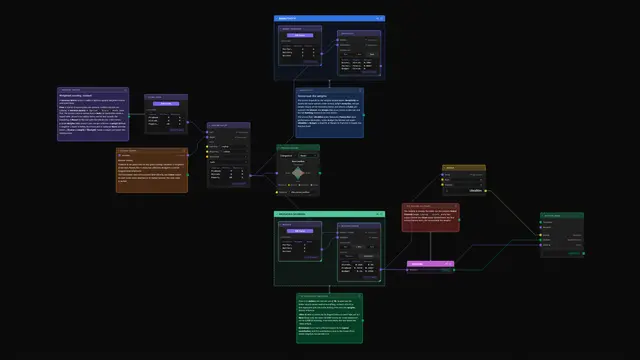
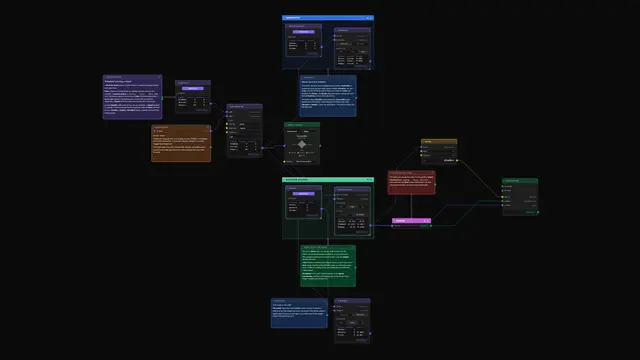
Sensitivity: Flip points mode, the weight at which another option wins
[[C125]] flipPoints. Decision Sensitivity gains a mode: Flip points reads
the Weights table and gives, per criterion, the nearest weight below and
above its own at which another option takes first place, and which one,
never crossing zero. The output swaps to a Frame and the input relabels to
Weights. Exact, since every score shares the weight total. Stands in for
v2.0/10's ±N% scenarios; the backlog item is done. The Decision Matrix seed
shows it.

Claude-Session: https://claude.ai/code/session_018WxbmNX7yKN6Bf3ABencBp

Changed region(s): [[0.0625, 0.0306, 0.9375, 0.9778]]

diff --git a/src/graph/nodes/frame.ts b/src/graph/nodes/frame.ts
@@ -32,7 +32,7 @@ import {
 } from "../frame";
 import {
   pivotFrame, nestFrame, unnestCube,
-  splitColumn, addIndexColumn, decisionMatrix, decisionCriteria, decisionSensitivity, resolveDecisionWeights, allocateFrame, choiceLadder,
+  splitColumn, addIndexColumn, decisionMatrix, decisionCriteria, decisionSensitivity, flipPoints, resolveDecisionWeights, allocateFrame, choiceLadder,
   mergeColumns, promoteHeaders, demoteHeaders, dropBlankRows,
   lookupCell, lookupRowIndex,
   frameRowAt, cubeRowAt, asLookupSource, reconcileFrames,
@@ -1560,15 +1560,19 @@ export class DecisionMatrixNode extends ClassicPreset.Node {
 
 // ─── DECISION SENSITIVITY ───────────────────────────────────────────────────────
 
+export type SensitivityMode = "scenarios" | "flips";
+
 export class DecisionSensitivityNode extends ClassicPreset.Node {
   static socketDocs: Record<string, string> = {
     scores: "The options frame a Decision Matrix takes: rows are options, number columns criteria.",
-    scenarios: "The Decision Matrix weights frame widened to many scenarios: one row per Criterion, and a number column per scenario (its header names it) carrying that scenario's weight. An optional Norm column applies per criterion across every scenario; a criterion a scenario omits weighs 1.",
+    scenarios: "Scenarios: the Decision Matrix weights frame widened, one row per Criterion and a number column per scenario (its header names it) carrying that scenario's weight; an optional Norm column and At least / At most apply across every scenario, and a criterion a scenario omits weighs 1. Flip points: the Decision Matrix's own Weights table.",
+    cube: "Scenarios: a row per scenario with its Winner, Margin and full Ranking. Flip points: a row per criterion with the nearest weight below and above its own at which another option would win, and which one.",
   };
 
   label: string;
   normalize: DecisionNormalize;
-  cachedResult: CubeValue | SolError | null = null;
+  mode: SensitivityMode;
+  cachedResult: CubeValue | FrameValue | SolError | null = null;
   width = 220; height = 240;
 
   static frameHints: Record<string, FrameHint> = {
@@ -1581,20 +1585,44 @@ export class DecisionSensitivityNode extends ClassicPreset.Node {
     ] },
   };
 
-  constructor(init?: { label?: string; normalize?: DecisionNormalize }) {
+  // [[C125]] flipPoints: the mode swaps the output between a Cube of scenarios and a Frame of flip points.
+  static outputFor(mode: SensitivityMode) { return mode === "flips" ? frameOut("Flip points") : cubeOut("By scenario"); }
+  static inputLabel(mode: SensitivityMode) { return mode === "flips" ? "Weights" : "Scenarios"; }
+
+  constructor(init?: { label?: string; normalize?: DecisionNormalize; mode?: SensitivityMode }) {
     super("DecisionSensitivity");
     this.label = init?.label ?? "Sensitivity";
     this.normalize = init?.normalize ?? "max";
+    this.mode = init?.mode === "flips" ? "flips" : "scenarios";
     this.addInput("scores", frameIn("Scores"));
-    this.addInput("scenarios", frameIn("Scenarios"));
-    this.addOutput("cube", cubeOut("By scenario"));
+    this.addInput("scenarios", frameIn(DecisionSensitivityNode.inputLabel(this.mode)));
+    this.addOutput("cube", DecisionSensitivityNode.outputFor(this.mode));
+  }
+
+  setMode(next: SensitivityMode): { outputChanged: boolean } {
+    if (next === this.mode) return { outputChanged: false };
+    this.mode = next;
+    const spec = DecisionSensitivityNode.outputFor(next);
+    this.outputs.cube!.socket = spec.socket;
+    this.outputs.cube!.label = spec.label;
+    this.inputs.scenarios!.label = DecisionSensitivityNode.inputLabel(next);
+    return { outputChanged: true };
+  }
+
+  frameShape(_outKey: string, _ctx: FrameShapeContext): Shape | null {
+    if (this.mode !== "flips") return null;
+    return { columns: [
+      { name: "Criterion", type: "string" }, { name: "Weight", type: "number" },
+      { name: "Flips below", type: "number" }, { name: "Winner below", type: "string" },
+      { name: "Flips above", type: "number" }, { name: "Winner above", type: "string" },
+    ] };
   }
 
   data(inputs: { scores?: (FrameValue | null)[]; scenarios?: (FrameValue | null)[] }) {
     const scores = inputs.scores?.[0] ?? null;
     const scenarios = inputs.scenarios?.[0] ?? null;
-    if (!scores || !scenarios) { this.cachedResult = null; return { cube: null }; }
-    this.cachedResult = runVerb(() => decisionSensitivity(scores, scenarios, this.normalize));
+    if (!scores || (!scenarios && this.mode === "scenarios")) { this.cachedResult = null; return { cube: null }; }
+    this.cachedResult = runVerb(() => (this.mode === "flips" ? flipPoints(scores, scenarios, this.normalize) : decisionSensitivity(scores, scenarios!, this.normalize)));
     return { cube: this.cachedResult };
   }
 }

diff --git a/tests/graph/decisionMatrix.test.ts b/tests/graph/decisionMatrix.test.ts
@@ -1,7 +1,7 @@
 // [[B17]]
 import { describe, it, expect } from "vitest";
-import { decisionMatrix, decisionCriteria, decisionSensitivity } from "../../src/graph/frameVerbs";
-import { DecisionMatrixNode } from "../../src/graph/rete-nodes";
+import { decisionMatrix, decisionCriteria, decisionSensitivity, flipPoints } from "../../src/graph/frameVerbs";
+import { DecisionMatrixNode, DecisionSensitivityNode } from "../../src/graph/rete-nodes";
 import { isSolError, solError } from "../../src/graph/errorValue";
 import { isFrameValue, isCubeValue, type FrameValue, type FrameColumn } from "../../src/graph/frame";
 
@@ -509,5 +509,72 @@ describe("deal-breakers ([[C124]] dealBreakers)", () => {
     if (!isCubeValue(cube)) throw new Error("expected a cube");
     expect(cube.columns[0].cells).toEqual(["Light-first"]);
     expect(cube.columns[1].cells).toEqual(["Tower"]);
+  });
+});
+
+describe("flip points ([[C125]] flipPoints)", () => {
+  const cars: FrameValue = { __frame: true, columns: [
+    { name: "Car", type: "string", values: ["Civic", "Model 3", "RAV4", "Miata", "Outback"] },
+    { name: "Price", type: "number", values: [26, 42, 31, 30, 29] },
+    { name: "Range", type: "number", values: [450, 500, 520, 400, 480] },
+    { name: "Fun", type: "number", values: [6, 9, 4, 10, 5] },
+    { name: "Space", type: "number", values: [6, 6, 9, 2, 9] },
+  ] };
+  const weights: FrameValue = { __frame: true, columns: [
+    { name: "Criterion", type: "string", values: ["Price", "Range", "Fun", "Space"] },
+    { name: "Weight", type: "number", values: [-3, 1, 2, 2] },
+  ] };
+  const w0 = [-3, 1, 2, 2];
+  // An unrounded oracle: ÷Max values weighted and summed, the first strict best winning.
+  const winnerAt = (j: number, t: number) => {
+    const crit = cars.columns.slice(1).map((c) => { const v = c.values as number[]; const m = Math.max(...v.map(Math.abs)); return v.map((x) => x / m); });
+    const w = w0.map((x, k) => (k === j ? t : x));
+    const tot = (cars.columns[0].values as string[]).map((_, i) => crit.reduce((s, e, k) => s + e[i] * w[k], 0));
+    return cars.columns[0].values[tot.reduce((b, v, i) => (v > tot[b] ? i : b), 0)];
+  };
+
+  it("names, per criterion, the nearest weights either side where another option takes first place", () => {
+    const out = flipPoints(cars, weights, "max");
+    expect(out.columns.map((c) => c.name)).toEqual(["Criterion", "Weight", "Flips below", "Winner below", "Flips above", "Winner above"]);
+    const now = winnerAt(0, -3);
+    let checked = 0;
+    out.columns[0].values.forEach((_, j) => {
+      for (const [side, dir] of [["below", -1], ["above", 1]] as const) {
+        const t = col(out, `Flips ${side}`).values[j] as number | null;
+        const who = col(out, `Winner ${side}`).values[j];
+        if (t == null) continue;
+        checked++;
+        expect(winnerAt(j, t + dir * 1e-3)).toBe(who);
+        expect(winnerAt(j, t - dir * 1e-3)).toBe(now);
+      }
+    });
+    expect(checked).toBeGreaterThan(2);
+  });
+
+  it("never crosses zero: a cost stays a cost", () => {
+    const out = flipPoints(cars, weights, "max");
+    const above = col(out, "Flips above").values[0];
+    expect(above == null || (above as number) <= 0).toBe(true);
+    for (let j = 1; j < 4; j++) {
+      const below = col(out, "Flips below").values[j];
+      expect(below == null || (below as number) >= 0).toBe(true);
+    }
+  });
+
+  it("a ruled-out option never wins, and one option left flips nowhere", () => {
+    const capped: FrameValue = { ...weights, columns: [...weights.columns, { name: "At most", type: "number", values: [27, null, null, null] }] };
+    const out = flipPoints(cars, capped, "max");
+    expect([...col(out, "Flips below").values, ...col(out, "Flips above").values].every((v) => v == null)).toBe(true);
+  });
+
+  it("the node's Flip points mode swaps its output to a frame and reads the Weights table", () => {
+    const n = new DecisionSensitivityNode();
+    expect(n.outputs.cube!.label).toBe("By scenario");
+    expect(n.setMode("flips")).toEqual({ outputChanged: true });
+    expect(n.inputs.scenarios!.label).toBe("Weights");
+    const out = n.data({ scores: [cars], scenarios: [weights] }).cube;
+    expect(isFrameValue(out)).toBe(true);
+    expect(isFrameValue(n.data({ scores: [cars] }).cube)).toBe(true);
+    expect(new DecisionSensitivityNode({ mode: "flips" }).outputs.cube!.label).toBe("Flip points");
   });
 });

diff --git a/src/graph/nodeCatalog.ts b/src/graph/nodeCatalog.ts
@@ -926,7 +926,7 @@ export const NODE_CATALOG: CatalogEntry[] = [
             type: "category", label: "Analyze", description: "Score, profile, and compare Frames: weighted decisions, column summaries and correlations, version reconciliation.",
             children: [
               { type: "decision-matrix", label: "Decision Matrix", description: "Scores and ranks a Frame of options: rows are options and number columns are criteria. Score = `Σ(value × weight) / Σ|weight|`, ranked on the rounded score. Weights come from a Weights table, one row per criterion; a negative weight favors lower values like cost, and a criterion left out weighs 1. Norm scales each criterion so dollars and out-of-10 scores compare: Raw, ÷Max (the default) or Rank. At least and At most columns are deal-breakers: an option outside them is ruled out before weighing. A blank counts as the criterion's median. Breakdown adds each criterion's contribution to the Score.", create: () => new DecisionMatrixNode(), parity: false, keywords: "decision matrix weighted score rank ranking criteria weight choose compare options podium dmbv multi-criteria mcda" },
-              { type: "decision-sensitivity", label: "Sensitivity", description: "Re-scores the same options under several weight Scenarios to see whether the winner holds. The Scenarios table is the Decision Matrix's Weights table with one weight column per scenario, and an optional Norm column. The result is a Cube with one row per scenario: the Winner, the Margin over the runner-up, and the full Ranking to drill into. Options tied for first are listed together. Pairs with Decision Matrix.", create: () => new DecisionSensitivityNode(), parity: false, keywords: "decision sensitivity robustness scenario weight cube what-if stress test ranking stability mcda" },
+              { type: "decision-sensitivity", label: "Sensitivity", description: "Re-scores the same options under several weight Scenarios to see whether the winner holds. The Scenarios table is the Decision Matrix's Weights table with one weight column per scenario, and an optional Norm column. The result is a Cube with one row per scenario: the Winner, the Margin over the runner-up, and the full Ranking to drill into. Options tied for first are listed together. Flip points mode takes the Weights table instead and gives, per criterion, the weight below and above its own at which another option would win. Pairs with Decision Matrix.", create: () => new DecisionSensitivityNode(), parity: false, keywords: "decision sensitivity robustness scenario weight cube what-if stress test ranking stability mcda flip point break-even tipping" },
               { type: "choice-ladder", label: "Choice Ladder", description: "Orders a Decision Matrix's options into the sequence to take them in when you can't do them all. Limits name cost columns: a row with a number is counted, a row without one is a rough cost such as political capital. Optional Requires and Excludes columns link options, and Must and Never columns force them in or out. Where two scores are within Close, the ladder forks, and the side you take is kept. Value flows down and each rung takes what it serves. Plan is the main line.", create: () => new ChoiceLadderNode(), parity: false, keywords: "choice ladder choose several pick set shortlist budget limit constraint knapsack portfolio itinerary decision matrix fork plan trip restaurants policy agenda priority capital requires excludes" },
               { type: "describe",    label: "Describe",    description: "One row per column: count, blank, distinct, and for numbers mean, std, min, quartiles, max. pandas `describe`, R `summary`.", create: () => new DescribeNode(), parity: false, keywords: "describe summary summarize profile statistics count mean std quartile overview explore eda" },
               { type: "corr-matrix", label: "Correlation Matrix", description: "Pearson, Spearman or Kendall correlation, or covariance, between every pair of number columns, with a leading name column. pandas `df.corr`, R `cor`.", create: () => new CorrMatrixNode(), parity: false, keywords: "correlation matrix corr cov covariance pearson spearman kendall pairwise heatmap" },

diff --git a/src/graph/frameVerbs.ts b/src/graph/frameVerbs.ts
@@ -1710,6 +1710,8 @@ interface DecisionScores {
   contrib: number[][];
   /** Each criterion's weight over Σ|weight|. */
   weightShare: number[];
+  /** `effective[j][i]`: option i's normalized value on criterion j, before weighting. */
+  effective: number[][];
   scores: number[];
 }
 
@@ -1750,7 +1752,7 @@ function decisionScores(
     return round4(sw);
   });
   const weightShare = criteriaCols.map((_, j) => (sumAbsW > 0 ? weightOf(j) / sumAbsW : 0));
-  return { labelName: labelCol?.name ?? "Option", labels, criteria: criteriaCols, contrib, weightShare, scores };
+  return { labelName: labelCol?.name ?? "Option", labels, criteria: criteriaCols, contrib, weightShare, effective, scores };
 }
 
 export function decisionMatrix(
@@ -1968,6 +1970,54 @@ export function decisionSensitivity(
     { name: "Margin", cells: marginCells },
     { name: "Ranking", cells: rankingCells },
   ]);
+}
+
+// ─── Flip points (how far each weight can move before the winner changes) ────────
+
+/** For each criterion, the nearest weight below and above its own at which another option would take first place, the
+ *  others held ([[C125]] flipPoints). Every score shares Σ|w|, so with one weight `t` free, option i's score orders by
+ *  `A_i + e_i·t`; the winner W is overtaken where those lines cross. The search stays on the weight's side of zero. */
+export function flipPoints(f: FrameValue, weightsFrame: FrameValue | null, normalize: DecisionNormalize): FrameValue {
+  const criteria = decisionCriteria(f);
+  if (criteria.length === 0) throw solError("#VALUE!", "Decision Matrix needs at least one numeric criterion column");
+  const { weights, normOverrides, bounds } = resolveDecisionWeights(weightsFrame, criteria);
+  const w = criteria.map((_, j) => weights?.[j] ?? 1);
+  const failed = decisionScreen(f, bounds);
+  const pass = failed.map((x, i) => (x.length ? -1 : i)).filter((i) => i >= 0);
+  const ds = decisionScores(frameRows(f, pass), w, normalize, normOverrides);
+  const n = pass.length;
+  const eff = ds.effective;
+  const total = Array.from({ length: n }, (_, i) => criteria.reduce((s, _, j) => s + eff[j][i] * w[j], 0));
+  const win = total.reduce((b, v, i) => (v > total[b] + 1e-12 ? i : b), 0);
+
+  const rows = criteria.map((name, j) => {
+    let below: { t: number; who: number } | null = null, above: { t: number; who: number } | null = null;
+    if (n > 1) {
+      const A = total.map((v, i) => v - eff[j][i] * w[j]);
+      const lo = w[j] > 0 ? 0 : -Infinity, hi = w[j] < 0 ? 0 : Infinity;
+      for (let i = 0; i < n; i++) {
+        if (i === win) continue;
+        const de = eff[j][i] - eff[j][win];
+        if (Math.abs(de) < 1e-12) continue;
+        const t = (A[win] - A[i]) / de;
+        if (de > 0 && t <= hi && (above == null || t < above.t)) above = { t: Math.max(t, w[j]), who: i };
+        if (de < 0 && t >= lo && (below == null || t > below.t)) below = { t: Math.min(t, w[j]), who: i };
+      }
+    }
+    return { name, w: w[j], below, above };
+  });
+  const label = (k: number) => ds.labels[k];
+  return {
+    __frame: true,
+    columns: [
+      { name: "Criterion", type: "string", values: rows.map((r) => r.name) },
+      { name: "Weight", type: "number", values: rows.map((r) => r.w) },
+      { name: "Flips below", type: "number", values: rows.map((r) => (r.below ? round4(r.below.t) : null)) },
+      { name: "Winner below", type: "string", values: rows.map((r) => (r.below ? label(r.below.who) : null)) },
+      { name: "Flips above", type: "number", values: rows.map((r) => (r.above ? round4(r.above.t) : null)) },
+      { name: "Winner above", type: "string", values: rows.map((r) => (r.above ? label(r.above.who) : null)) },
+    ],
+  };
 }
 
 // ─── Timesaver verbs ─────────────────────────────────────────────────────────────

diff --git a/src/graph/components/FrameNodes.tsx b/src/graph/components/FrameNodes.tsx
@@ -30,6 +30,7 @@ import type {
   DropBlankRowsNode as DropBlankRowsNodeType,
   DecisionMatrixNode as DecisionMatrixNodeType,
   DecisionSensitivityNode as DecisionSensitivityNodeType,
+  SensitivityMode,
   ChoiceLadderNode as ChoiceLadderNodeType,
   SettleNode as SettleNodeType,
   PayoffPlannerNode as PayoffPlannerNodeType,
@@ -71,7 +72,7 @@ import { scheduleAutosave } from "../persistence";
 import { getOwningEditor, getOwningView } from "../activeGraph";
 import { SolenoidSocket } from "../sockets";
 import { cableGhostStore } from "../cableState";
-import { reconcileTypesAfterEdit } from "../fcReconcile";
+import { reconcileTypesAfterEdit, retypeOutputCables } from "../fcReconcile";
 import { collapseStore } from "../collapseStore";
 import { pivotEditor } from "../pivotEditorStore";
 import { InlineInputs, InlineTextField, useConnectedInputs } from "./inlineInput";
@@ -731,15 +732,29 @@ export function DecisionMatrixComponent({ data, emit }: NodeProps<DecisionMatrix
 
 // ─── DECISION SENSITIVITY ───────────────────────────────────────────────────────
 
+const SENSITIVITY_MODES: { value: SensitivityMode; label: string; title: string }[] = [
+  { value: "scenarios", label: "Scenarios", title: "Re-rank under each named set of weights." },
+  { value: "flips", label: "Flip points", title: "For each criterion, the weight at which another option would win." },
+];
+
 export function DecisionSensitivityComponent({ data, emit }: NodeProps<DecisionSensitivityNodeType>) {
   const [normalize, setNormalize] = useNodeField(data, "normalize");
+  const [mode, setModeField] = useNodeField(data, "mode");
+  async function pickMode(next: SensitivityMode) {
+    const { outputChanged } = data.setMode(next);
+    const editor = getOwningEditor(data.id), view = getOwningView(data.id);
+    if (outputChanged && editor && view) await retypeOutputCables(editor, view, data.id, "cube");
+    if (view) await view.rerenderNode(data.id);
+    setModeField(next);
+  }
   return (
     <NodeShell node={data} emit={emit}>
       <InlineInputs node={data} emit={emit} />
-      <CardSection label="Normalize" title="The fallback for a criterion whose Norm cell is blank; applies across every scenario.">
+      <SegToggle value={mode} options={SENSITIVITY_MODES} onChange={(m) => void pickMode(m)} />
+      <CardSection label="Normalize" title="The fallback for a criterion whose Norm cell is blank.">
         <SegToggle value={normalize} options={DECISION_NORMALIZE_OPTIONS} onChange={setNormalize} />
       </CardSection>
-      <CubeDisplay cube={data.cachedResult} label={nodeDisplayName(data)} />
+      <FrameOrCubeDisplay value={data.cachedResult} label={nodeDisplayName(data)} />
     </NodeShell>
   );
 }

diff --git a/tree/specs/computation/frame-verbs.md b/tree/specs/computation/frame-verbs.md
@@ -593,6 +593,8 @@ These also run in the oracle on the collected value, on both platforms.
 
 `decisionSensitivity(scores, scenarios, normalize)` reruns the matrix once per scenario. Scenarios is the weights frame widened: the first string column names the criteria, each number column other than `At least` and `At most` is one scenario named by its header, and one optional `Norm` column and the bounds apply to all of them. No number column is `#VALUE!` (`Scenarios needs a number column per scenario`). When no row is named after any criterion every weight would default to 1 and every scenario would agree, so that is `#VALUE!` too (`No Scenarios row is named after a criterion`). A criterion a scenario omits weighs 1. The result is a Cube with one row per scenario: `Scenario` (the header), `Winner` (the top option, or every option tied at rank 1 joined with ` = `), `Margin` (`round4(top − runner-up)`, blank with one option) and `Ranking` (the scenario's full label · Score · Rank frame, nested).
 
+`flipPoints(scores, weights, normalize)` is the node's Flip points mode ([[C125]] flipPoints). It reads the Decision Matrix's own Weights table (bounds included; unwired, every weight is 1), screens, and finds the winner W on the unrounded score (the first in input order on a tie). For each criterion c, with every other weight held, option i's score orders by `A_i + e_ic · t` where `t` is c's weight, `e` the normalized value and `A_i` the rest of its weighted sum, since every score shares the denominator `Σ|w|`. An option with a larger `e_ic` than W's overtakes W at `t = (A_W − A_i) / (e_ic − e_Wc)` going up, a smaller one going down; the nearest such crossing on each side is the flip, kept on the weight's side of zero (a weight of 0 searches both ways). The result is a Frame, one row per criterion: `Criterion` · `Weight` · `Flips below` · `Winner below` · `Flips above` · `Winner above`, the weights `round4`ed and blank where no crossing exists. At the flip itself the two options tie; past it the named one wins. Unrounded, so the rounded ranking can show the tie a hair beyond it.
+
 **Why these rules** ([[B17]] typedValueModel). Each removes a plausible wrong reading. Both cards scale by `max` unless told otherwise (the card's `normalize`), because unscaled values mislead the moment criteria use different scales (dollars beside a 1 to 5 rating), and comparing unlike criteria is the nodes' reason to exist. The breakdown shows signed contributions because bare normalized values read backwards under a negative weight: the priciest option showed Price 1.0 while taking the largest penalty. Ranking on the score as shown means the displayed score and the rank never disagree, and Sensitivity's Margin is 0 exactly when its Winner names a tie (`A = B`). The no-matching-row `#VALUE!` catches the trap a renamed criterion springs, where every scenario would silently come out identical. A breakdown of unscaled values, if wanted back, is a third detail choice beside summary and breakdown rather than a redefinition of this one; a Scenarios table that legitimately runs with no matching criteria would reopen the `#VALUE!`.
 
 ### Choice Ladder

diff --git a/tree/decisions/C/C125.md b/tree/decisions/C/C125.md
@@ -1,0 +1,27 @@
+---
+id: C125
+title: "How close a call is shows as the weight at which another option would win"
+status: active
+parents: ["[[B17]]"]
+supersedes: []
+superseded_by:
+conflicts_with: []
+date: 2026-10-16
+ratified_by:
+confidence: high
+aliases: [flipPoints]
+---
+
+## Decision
+
+Decision Sensitivity has a Flip points mode. For each criterion it takes the Weights table and finds, holding every other weight, the nearest weight below and above the current one at which a different option would take first place, and which option. A criterion's weight never crosses zero in the search, since that turns a cost into a benefit, and an option ruled out by a deal-breaker can never win.
+
+## Why
+
+The question behind a weighted score is how sure it is. A flip point answers it for each weight in the units the person set: if Light's 2 only has to drop to 1.6 for another apartment to win, the call is close on Light and worth a second look; if no weight short of zero changes it, it isn't. Named scenarios answer only for the scenarios someone thought to write, and a spread of random weights is harder to read than one number per criterion.
+
+## Consequences
+
+- How it's built: [[frame-verbs#Decision Matrix and Decision Sensitivity]].
+- It answers the backlog's flip-points item and stands in for the ±N% affordance in v2.0/10.
+- **Reopen if:** people need to know how two weights moving together change the winner.

diff --git a/docs/backlog.md b/docs/backlog.md
@@ -168,12 +168,6 @@ verified in the desktop app against the demo vault. Landed ledger: the bundle's 
 
 ## Decision Matrix (author 2026-09-28)
 
-- [ ] **Flip points** ([[B17]] typedValueModel): per criterion, the nearest weight at which a different
-  option takes first place with the other weights held, the way the Decision Matrix Bases View plugin shows them
-  under each weight (`flipWeights` in its `src/scoring.ts`, tested there). Pairwise order is linear in each
-  weight since every score shares Σ|w|; the plugin ignores `round4`, so the flip weight lands on a near-tie
-  rather than a clean handover. A home here: a Breakdown column or a Decision Sensitivity mode. Weigh it
-  against `v2.0/10`'s ±N% affordance first, which answers the same "how close is the call" question.
 - [ ] **The plugin's breakdown bars in the app** (author 2026-09-29, queued as its own task): the Decision Matrix
   Bases View's Rankings view draws each option as a bar split into each criterion's signed contribution, with
   penalties hatched left of zero and a legend (`src/rankings-view.ts` and `styles.css` there). Bring that visual

diff --git a/docs/v2.0/10-decision-model-sensitivity.md b/docs/v2.0/10-decision-model-sensitivity.md
@@ -30,10 +30,8 @@ building a parameter-sweep mechanism from scratch.**
 ## Build
 
 Two possible build shapes — pick based on how bundle 09's Monte Carlo driver shapes up:
-1. **Minimal:** a UI affordance on `DecisionSensitivityNode` that auto-generates
-   perturbed weight scenarios (±10% per criterion) instead of requiring the user to
-   hand-author the `scenarios` frame — reusing the existing `decisionSensitivity` verb
-   unchanged.
+1. **Minimal:** landed as the node's Flip points mode ([[C125]] flipPoints): per
+   criterion, the exact weight at which another option wins, in place of ±10% scenarios.
 2. **Fuller (Monte Carlo has landed):** wire `DecisionMatrixNode`'s weights through
    the composite Monte Carlo run mode directly, sampling weight perturbations and re-running
    `decisionMatrix` many times to show ranking-outcome robustness as a distribution, not

diff --git a/docs/2.0-plan.md b/docs/2.0-plan.md
@@ -140,8 +140,8 @@ worker HIC. Score: Solid · Core · High · Wide (every layout consumer reads mo
   plus Polars' `decimal` dtype, and a rounding-policy setting on the `RoundNOp` pattern.
   Still Wide; AUTHOR.
 - **Decision sensitivity** (`v2.0/10`): the Monte Carlo shape (wire `DecisionMatrixNode`'s
-  weights through the composite MC run mode) is 2.0; the minimal ±N% affordance is
-  1.4-pullable (D13).
+  weights through the composite MC run mode) is 2.0; the minimal shape landed as Flip
+  points ([[C125]] flipPoints).
 
 ## Arc 7 — Packs as a program
 
